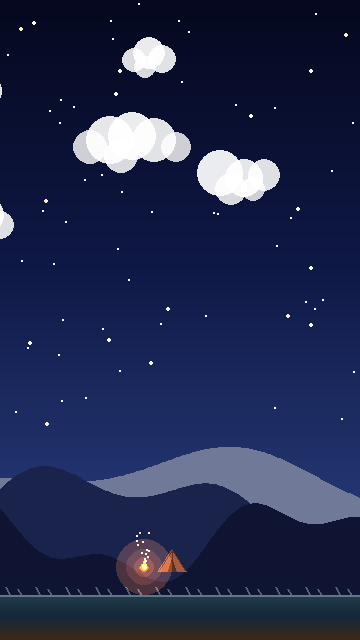
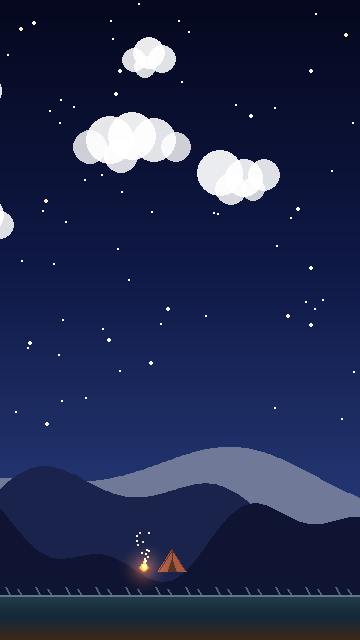
sketch: drop rainbow/village/pagoda/lake; smooth campfire halo
Of the 5 candidates from the previous round (12-16), only the
campfire (15) is kept. Removed the four rejected sketches and
their draw functions:

  - draw_rainbow + 12_rainbow.png
  - draw_sleeping_village + 13_sleeping_village.png
  - draw_pagoda_lanterns_full + 14_pagoda_lanterns_full.png
  - draw_lake_reflection + 16_lake_reflection.png

For the campfire halo: replaced the 3 concentric circles with a
per-pixel radial gradient (quadratic falloff). Built once into a
small surface and blitted additively, so the warm firelight bleeds
smoothly into the ground/tent with no visible ring artefacts.

https://claude.ai/code/session_01WaiLPkfCPa2WQsnZ8VxWoH

Changed region(s): [[0.3056, 0.8438, 0.4889, 0.9375]]

diff --git a/tools/sketch_scenes.py b/tools/sketch_scenes.py
@@ -1162,191 +1162,6 @@ def draw_parrot_family(surf: pygame.Surface, palette: dict) -> None:
         pygame.draw.circle(surf, (20, 15, 20), (px + 2, py - 1), 1)
 
 
-# ──────────────── 12 Rainbow ────────────────
-
-def draw_rainbow(surf: pygame.Surface, palette: dict) -> None:
-    """Soft semi-circular rainbow arc across the upper sky.
-
-    Drawn as 7 concentric arcs (ROYGBIV) with translucent blending so the
-    rainbow reads as atmospheric, not a flat decal."""
-    cx = W / 2
-    cy = GROUND_Y + 30   # below the screen so we only see the top arc
-    radius_outer = 270
-    band_w = 6
-    bands = (
-        (220,  90,  90),  # red
-        (240, 150,  70),  # orange
-        (240, 210,  90),  # yellow
-        (130, 200, 110),  # green
-        (100, 170, 230),  # blue
-        (130, 110, 220),  # indigo
-        (200, 110, 230),  # violet
-    )
-    layer = pygame.Surface((W, H), pygame.SRCALPHA)
-    # Each band drawn as a thick translucent arc + an outer thinner arc
-    # for soft edges.
-    for i, color in enumerate(bands):
-        r = radius_outer - i * band_w
-        rect = pygame.Rect(cx - r, cy - r, r * 2, r * 2)
-        # Main band — 0..π in pygame is the top half of the circle
-        pygame.draw.arc(layer, (*color, 220), rect, 0, math.pi, band_w)
-        # Outer + inner soft edges for atmospheric blur
-        pygame.draw.arc(layer, (*color, 90),
-                        pygame.Rect(cx - r - 1, cy - r - 1, r * 2 + 2, r * 2 + 2),
-                        0, math.pi, band_w + 2)
-    surf.blit(layer, (0, 0))
-
-
-# ──────────────── 13 Sleeping village ────────────────
-
-def draw_sleeping_village(surf: pygame.Surface, palette: dict) -> None:
-    """Small cluster of cottages on a far hill with lit windows and a
-    chimney smoke wisp rising into the dusk sky."""
-    base_x = int(W * 0.50)
-    base_y = GROUND_Y - 38
-    silh = (140, 100, 70)
-    roof = (75, 50, 35)
-
-    # 4 cottages of varied size/position — sketched as small silhouettes
-    cottages = [
-        (-36, 1.15),
-        (-12, 1.45),
-        ( 12, 1.30),
-        ( 32, 1.10),
-    ]
-    win_layer = pygame.Surface((W, H), pygame.SRCALPHA)
-    for ox, scale in cottages:
-        cx = base_x + ox
-        cw = max(7, int(9 * scale))
-        ch = max(5, int(7 * scale))
-        body_top = base_y - ch
-        # Body
-        pygame.draw.rect(surf, silh, (cx - cw // 2, body_top, cw, ch))
-        # Pitched roof
-        roof_h = max(3, int(4 * scale))
-        pygame.draw.polygon(surf, roof, [
-            (cx - cw // 2 - 1, body_top),
-            (cx + cw // 2 + 1, body_top),
-            (cx, body_top - roof_h),
-        ])
-        # Lit windows — two small warm squares
-        for wx_off in (-cw // 4, cw // 4):
-            wy = body_top + ch // 2
-            pygame.draw.rect(surf, (240, 210, 110),
-                             (cx + wx_off - 1, wy - 1, 2, 2))
-            # Bloom
-            pygame.draw.circle(win_layer, (255, 220, 130, 70),
-                               (cx + wx_off, wy), 4)
-    surf.blit(win_layer, (0, 0), special_flags=pygame.BLEND_RGB_ADD)
-
-    # Chimney smoke from one cottage
-    smoke_x = base_x + 7
-    smoke_top_y = base_y - 14   # roof tip
-    smoke_layer = pygame.Surface((W, H), pygame.SRCALPHA)
-    for k in range(9):
-        u = k / 8.0
-        sy = int(smoke_top_y - u * 38)
-        sx_off = math.sin(u * 3.2) * 4
-        a = int(110 - u * 90)
-        if a <= 4:
-            continue
-        r = 2 + int(u * 3)
-        pygame.draw.circle(smoke_layer, (200, 200, 215, a),
-                           (smoke_x + int(sx_off), sy), r)
-    surf.blit(smoke_layer, (0, 0))
-
-    # Soft warm halo over the whole village (cosy glow). Small RGB
-    # values at full alpha so additive contribution stays subtle and
-    # doesn't saturate the cottage silhouettes to white.
-    halo = pygame.Surface((W, H), pygame.SRCALPHA)
-    pygame.draw.ellipse(halo, (35, 22,  8, 255),
-                        (base_x - 52, base_y - 30, 104, 38))
-    pygame.draw.ellipse(halo, (50, 32, 12, 255),
-                        (base_x - 36, base_y - 24, 72,  30))
-    surf.blit(halo, (0, 0), special_flags=pygame.BLEND_RGB_ADD)
-
-
-# ──────────────── 14 Pagoda + paper lanterns (elaborate) ────────────────
-
-def draw_pagoda_lanterns_full(surf: pygame.Surface, palette: dict) -> None:
-    """Multi-tier pagoda silhouette with lanterns hanging on each eave
-    plus a column of rising lanterns drifting up into the night sky."""
-    pag_x = int(W * 0.50)
-    pag_y = GROUND_Y - 22
-    silh = (90, 60, 80)        # lighter so the pagoda reads against night sky
-    eave_hi = (160, 110, 130)  # subtle moonlight on the eave fronts
-
-    # Three tiers: each is a body rect + a wider eave trapezoid above it.
-    # Drawn from bottom to top — proportions enlarged ~70 % vs the smaller
-    # 09_paper_lanterns variant.
-    tiers = [
-        # body_w, body_h, eave_extra_w, eave_h
-        (28, 22,  7, 4),   # ground floor
-        (20, 10,  6, 3),   # mid
-        (14,  8,  5, 3),   # top
-    ]
-    cur_y = pag_y
-    eave_anchors = []  # (left_x, right_x, anchor_y) for hanging lanterns
-    for body_w, body_h, eave_extra, eave_h in tiers:
-        # Body
-        pygame.draw.rect(surf, silh,
-                         (pag_x - body_w // 2, cur_y - body_h, body_w, body_h))
-        # Eave — wider trapezoid sitting on top of the body
-        eave_top_w = body_w
-        eave_bot_w = body_w + eave_extra * 2
-        eave_bot_y = cur_y - body_h
-        eave_top_y = eave_bot_y - eave_h
-        pygame.draw.polygon(surf, silh, [
-            (pag_x - eave_bot_w // 2, eave_bot_y),
-            (pag_x + eave_bot_w // 2, eave_bot_y),
-            (pag_x + eave_top_w // 2, eave_top_y),
-            (pag_x - eave_top_w // 2, eave_top_y),
-        ])
-        # Eave front-edge highlight
-        pygame.draw.line(surf, eave_hi,
-                         (pag_x - eave_bot_w // 2 + 1, eave_bot_y),
-                         (pag_x + eave_bot_w // 2 - 1, eave_bot_y), 1)
-        eave_anchors.append((pag_x - eave_bot_w // 2, pag_x + eave_bot_w // 2,
-                             eave_bot_y))
-        cur_y = eave_top_y
-    # Spire on top
-    pygame.draw.line(surf, silh, (pag_x, cur_y), (pag_x, cur_y - 8), 2)
-    pygame.draw.circle(surf, silh, (pag_x, cur_y - 9), 2)
-
-    layer = pygame.Surface((W, H), pygame.SRCALPHA)
-
-    # Hanging lanterns on each eave (corners only)
-    for lx, rx, ay in eave_anchors:
-        for ax in (lx + 1, rx - 1):
-            # Hanging string
-            pygame.draw.line(surf, silh, (ax, ay), (ax, ay + 3), 1)
-            lan_y = ay + 6
-            # Lantern body — small warm rectangle
-            pygame.draw.rect(layer, (255, 180, 100, 235),
-                             (ax - 2, lan_y - 2, 4, 4))
-            # Bloom
-            pygame.draw.circle(layer, (255, 200, 130, 100), (ax, lan_y), 5)
-            pygame.draw.circle(layer, (255, 230, 160, 50), (ax, lan_y), 9)
-
-    # Rising lanterns — denser column drifting up and outward
-    rnd = random.Random(914)
-    n_rising = 16
-    for i in range(n_rising):
-        u = i / max(1, n_rising - 1)
-        drift = rnd.uniform(-1, 1) * (8 + u * 70)
-        lx = pag_x + drift + rnd.uniform(-3, 3)
-        ly = (pag_y - 38) - u * 240 + rnd.uniform(-5, 5)
-        warm = (255, 190, 110)
-        pygame.draw.rect(layer, (*warm, max(150, 230 - int(u * 80))),
-                         (int(lx) - 1, int(ly) - 2, 3, 4))
-        pygame.draw.circle(layer, (255, 200, 130, max(40, 100 - int(u * 50))),
-                           (int(lx), int(ly)), 5)
-        pygame.draw.circle(layer, (255, 220, 160, max(20, 60 - int(u * 30))),
-                           (int(lx), int(ly)), 8)
-
-    surf.blit(layer, (0, 0), special_flags=pygame.BLEND_RGB_ADD)
-
-
 # ──────────────── 15 Campfire camp ────────────────
 
 def draw_campfire(surf: pygame.Surface, palette: dict) -> None:
@@ -1414,90 +1229,31 @@ def draw_campfire(surf: pygame.Surface, palette: dict) -> None:
         pygame.draw.circle(spark_layer, col, (sx, sy), 1)
     surf.blit(spark_layer, (0, 0), special_flags=pygame.BLEND_RGB_ADD)
 
-    # Warm firelight halo — dim additive (small RGB values per pixel) so
-    # it tints the surrounding ground/tent with firelight without
-    # saturating to white.
-    halo = pygame.Surface((W, H), pygame.SRCALPHA)
-    pygame.draw.circle(halo, (60, 30, 12, 255), (cx, base_y - 4), 28)
-    pygame.draw.circle(halo, (90, 45, 18, 255), (cx, base_y - 4), 18)
-    pygame.draw.circle(halo, (130, 60, 25, 255), (cx, base_y - 4), 10)
-    surf.blit(halo, (0, 0), special_flags=pygame.BLEND_RGB_ADD)
+    # Warm firelight halo — smooth radial gradient (not concentric
+    # circles). Built per-pixel: distance from the fire centre is
+    # mapped through a quadratic falloff to RGB intensity, then blitted
+    # additively so the small per-pixel RGB values just tint the
+    # surrounding ground/tent without saturating to white.
+    halo_radius = 30
+    halo_size = halo_radius * 2 + 2
+    halo = pygame.Surface((halo_size, halo_size), pygame.SRCALPHA)
+    hcx = hcy = halo_size // 2
+    peak = (160, 80, 32)   # max additive contribution at the fire centre
+    for y in range(halo_size):
+        for x in range(halo_size):
+            d = math.hypot(x - hcx, y - hcy)
+            if d > halo_radius:
+                continue
+            u = d / halo_radius                    # 0 centre → 1 edge
+            intensity = (1.0 - u) ** 2.4           # smooth quadratic
+            r = int(peak[0] * intensity)
+            g = int(peak[1] * intensity)
+            b = int(peak[2] * intensity)
+            if r + g + b > 0:
+                halo.set_at((x, y), (r, g, b, 255))
+    halo_rect = halo.get_rect(center=(cx, base_y - 4))
+    surf.blit(halo, halo_rect.topleft, special_flags=pygame.BLEND_RGB_ADD)
 
-
-# ──────────────── 16 Pip's reflection in a still lake ────────────────
-
-def draw_lake_reflection(surf: pygame.Surface, palette: dict) -> None:
-    """Replace the foreground ground band with a still lake. A small
-    upside-down red parrot silhouette sits in the water near the centre
-    with concentric ripple rings. Sunset palette so the water glows
-    warm with horizontal highlight banding."""
-    water_top = GROUND_Y - 50
-    water_bot = H
-
-    # Water gradient — top glows with the warm horizon, deepening to a
-    # cooler blue at the bottom.
-    horizon = palette.get('sky_bot', (190, 130, 100))
-    deep = (
-        max(0, horizon[0] - 90),
-        max(0, horizon[1] - 80),
-        max(0, horizon[2] - 40),
-    )
-    water = pygame.Surface((W, water_bot - water_top))
-    for y in range(water_bot - water_top):
-        u = y / max(1, water_bot - water_top - 1)
-        r = int(horizon[0] * (1 - u) + deep[0] * u)
-        g = int(horizon[1] * (1 - u) + deep[1] * u)
-        b = int(horizon[2] * (1 - u) + deep[2] * u)
-        pygame.draw.line(water, (r, g, b), (0, y), (W, y))
-    surf.blit(water, (0, water_top))
-
-    # Horizontal highlight bands
-    bands = pygame.Surface((W, H), pygame.SRCALPHA)
-    for i in range(7):
-        y = water_top + 4 + i * 5
-        if y >= H:
-            break
-        a = max(20, 90 - i * 10)
-        pygame.draw.line(bands, (255, 240, 210, a), (0, y), (W, y), 1)
-    surf.blit(bands, (0, 0))
-
-    # Pip's reflection — small upside-down silhouette placed near centre.
-    # Body is a flattened ellipse, faint wing accent below it (closer to
-    # the bottom because upside-down), and a small beak pointing left.
-    pip_x = int(W * 0.30)
-    pip_y = water_top + 28
-    refl = pygame.Surface((W, H), pygame.SRCALPHA)
-    # Body — slightly translucent so it reads as a reflection
-    pygame.draw.ellipse(refl, (190,  55,  55, 200),
-                        (pip_x - 9, pip_y - 4, 18, 8))
-    # Eye
-    pygame.draw.circle(refl, (10, 8, 8, 220), (pip_x - 4, pip_y + 1), 1)
-    # Wing (now LOWER because mirrored)
-    pygame.draw.line(refl, (130,  35,  35, 220),
-                     (pip_x - 4, pip_y + 2), (pip_x - 8, pip_y + 5), 2)
-    # Beak — yellow, pointing left (since flipped)
-    pygame.draw.polygon(refl, (235, 195,  80, 200), [
-        (pip_x - 8, pip_y + 1),
-        (pip_x - 12, pip_y),
-        (pip_x - 8, pip_y - 1),
-    ])
-    # Tail (upside-down: extends to the right and downward in mirror)
-    pygame.draw.line(refl, (160,  40,  40, 200),
-                     (pip_x + 7, pip_y), (pip_x + 11, pip_y + 3), 2)
-
-    # Subtle distortion: smear the reflection vertically by drawing the
-    # same shapes again 1-2 px down with reduced alpha (water shimmer).
-    refl_blurred = refl.copy()
-    refl_blurred.set_alpha(80)
-    surf.blit(refl_blurred, (0, 2))
-    surf.blit(refl, (0, 0))
-
-    # Concentric ripple rings around the reflection
-    rings = pygame.Surface((W, H), pygame.SRCALPHA)
-    for r, a in ((9, 90), (15, 60), (22, 35)):
-        rect = pygame.Rect(pip_x - r, pip_y - r // 3, r * 2, max(2, r // 2))
-        pygame.draw.ellipse(rings, (255, 255, 255, a), rect, 1)
-    surf.blit(rings, (0, 0))
 
 
 # ──────────────── Driver ────────────────
@@ -1524,11 +1280,7 @@ SCENES = [
     ("09_paper_lanterns",  0.60, draw_paper_lanterns),
     ("10_cherry_blossoms", 0.92, draw_cherry_blossoms),
     ("11_parrot_family",   0.08, draw_parrot_family),
-    ("12_rainbow",                0.32, draw_rainbow),
-    ("13_sleeping_village",       0.42, draw_sleeping_village),
-    ("14_pagoda_lanterns_full",   0.60, draw_pagoda_lanterns_full),
     ("15_campfire_camp",          0.62, draw_campfire),
-    ("16_lake_reflection",        0.30, draw_lake_reflection),
 ]
 
 
